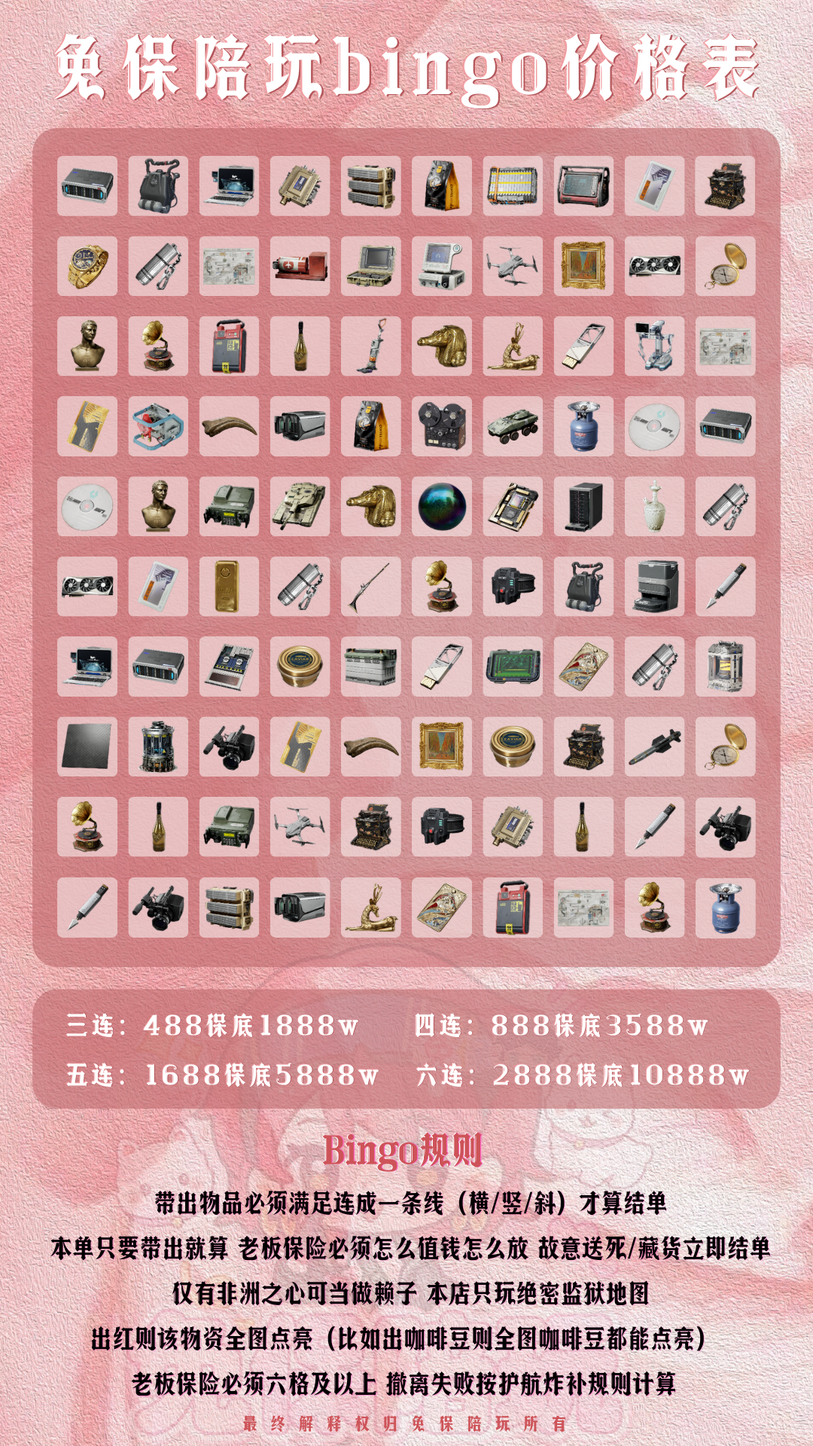
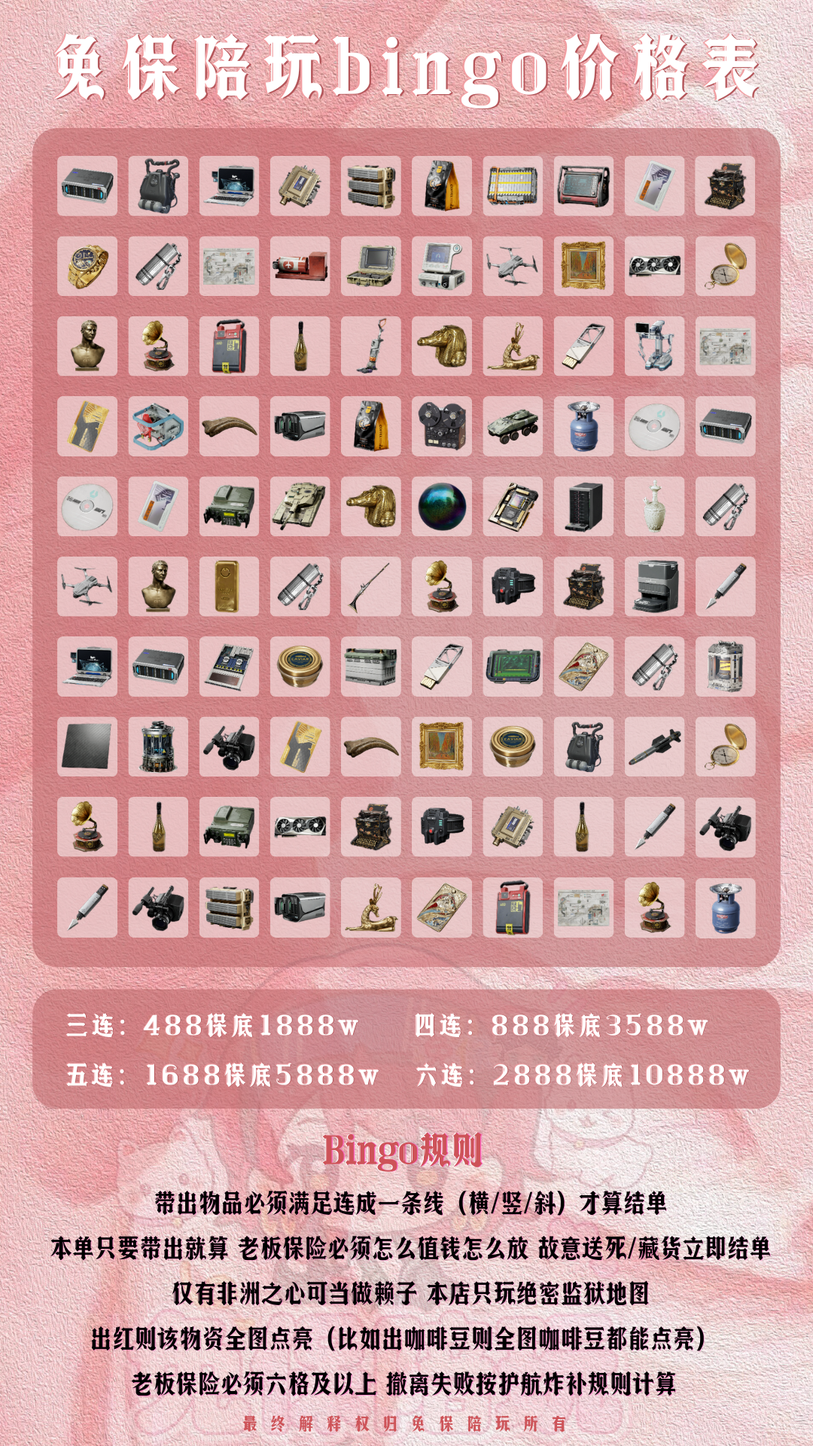
兔保陪玩Bingo换新v3

diff --git a/deploy/index.html b/deploy/index.html
@@ -296,7 +296,7 @@ var ITEMS = [
   {name:"GalaGame恋爱攻略单", cat:"fun", imgs:["https://patheia-1323749045.cos.ap-shanghai.myqcloud.com/peiwans-price/img/galagame-liangonglue-fun.png"]},
   {name:"我来监狱只为刷卡", cat:"fun", imgs:["https://patheia-1323749045.cos.ap-shanghai.myqcloud.com/peiwans-price/img/wo-lai-jianyu-shuaka.png"]},
   {name:"渡鸦的特别快递", cat:"fun", imgs:["https://patheia-1323749045.cos.ap-shanghai.myqcloud.com/peiwans-price/img/duya-tebie-kuaidi.png"]},
-  {name:"兔保陪玩Bingo", cat:"fun", imgs:["https://patheia-1323749045.cos.ap-shanghai.myqcloud.com/peiwans-price/img/bingo-v2.png"]},
+  {name:"兔保陪玩Bingo", cat:"fun", imgs:["https://patheia-1323749045.cos.ap-shanghai.myqcloud.com/peiwans-price/img/bingo-v3.png"]},
   {name:"旅行飞行棋", cat:"fun", imgs:["https://patheia-1323749045.cos.ap-shanghai.myqcloud.com/peiwans-price/img/travel-flychess.png"]},
   {name:"嘉豪单", cat:"fun", imgs:["https://patheia-1323749045.cos.ap-shanghai.myqcloud.com/peiwans-price/img/jiahao-dan.png"]},
   {name:"小狗单", cat:"fun", imgs:["https://patheia-1323749045.cos.ap-shanghai.myqcloud.com/peiwans-price/img/xiaogou-dan.png"]},

diff --git a/index.html b/index.html
@@ -339,7 +339,7 @@ var ITEMS = [
   {name:"GalaGame恋爱攻略单", cat:"fun", imgs:["https://patheia-1323749045.cos.ap-shanghai.myqcloud.com/peiwans-price/img/galagame-liangonglue-fun.png"]},
   {name:"我来监狱只为刷卡", cat:"fun", imgs:["https://patheia-1323749045.cos.ap-shanghai.myqcloud.com/peiwans-price/img/wo-lai-jianyu-shuaka.png"]},
   {name:"渡鸦的特别快递", cat:"fun", imgs:["https://patheia-1323749045.cos.ap-shanghai.myqcloud.com/peiwans-price/img/duya-tebie-kuaidi.png"]},
-  {name:"兔保陪玩Bingo", cat:"fun", imgs:["https://patheia-1323749045.cos.ap-shanghai.myqcloud.com/peiwans-price/img/bingo-v2.png"]},
+  {name:"兔保陪玩Bingo", cat:"fun", imgs:["https://patheia-1323749045.cos.ap-shanghai.myqcloud.com/peiwans-price/img/bingo-v3.png"]},
   {name:"旅行飞行棋", cat:"fun", imgs:["https://patheia-1323749045.cos.ap-shanghai.myqcloud.com/peiwans-price/img/travel-flychess.png"]},
   {name:"嘉豪单", cat:"fun", imgs:["https://patheia-1323749045.cos.ap-shanghai.myqcloud.com/peiwans-price/img/jiahao-dan.png"]},
   {name:"小狗单", cat:"fun", imgs:["https://patheia-1323749045.cos.ap-shanghai.myqcloud.com/peiwans-price/img/xiaogou-dan.png"]},

diff --git a/免保陪玩价格表.html b/免保陪玩价格表.html
@@ -339,7 +339,7 @@ var ITEMS = [
   {name:"GalaGame恋爱攻略单", cat:"fun", imgs:["https://patheia-1323749045.cos.ap-shanghai.myqcloud.com/peiwans-price/img/galagame-liangonglue-fun.png"]},
   {name:"我来监狱只为刷卡", cat:"fun", imgs:["https://patheia-1323749045.cos.ap-shanghai.myqcloud.com/peiwans-price/img/wo-lai-jianyu-shuaka.png"]},
   {name:"渡鸦的特别快递", cat:"fun", imgs:["https://patheia-1323749045.cos.ap-shanghai.myqcloud.com/peiwans-price/img/duya-tebie-kuaidi.png"]},
-  {name:"兔保陪玩Bingo", cat:"fun", imgs:["https://patheia-1323749045.cos.ap-shanghai.myqcloud.com/peiwans-price/img/bingo-v2.png"]},
+  {name:"兔保陪玩Bingo", cat:"fun", imgs:["https://patheia-1323749045.cos.ap-shanghai.myqcloud.com/peiwans-price/img/bingo-v3.png"]},
   {name:"旅行飞行棋", cat:"fun", imgs:["https://patheia-1323749045.cos.ap-shanghai.myqcloud.com/peiwans-price/img/travel-flychess.png"]},
   {name:"嘉豪单", cat:"fun", imgs:["https://patheia-1323749045.cos.ap-shanghai.myqcloud.com/peiwans-price/img/jiahao-dan.png"]},
   {name:"小狗单", cat:"fun", imgs:["https://patheia-1323749045.cos.ap-shanghai.myqcloud.com/peiwans-price/img/xiaogou-dan.png"]},
